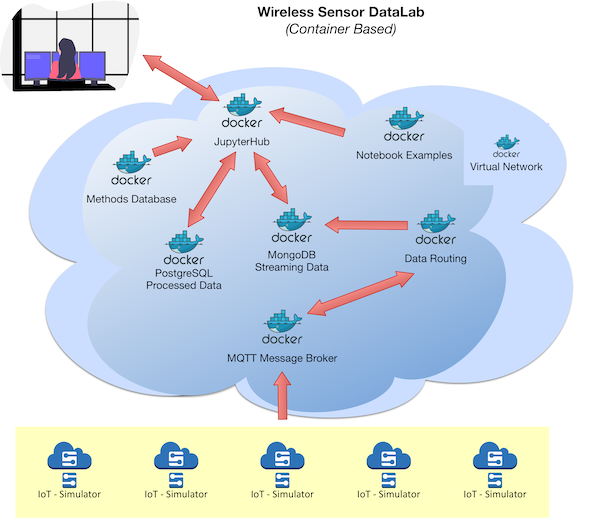
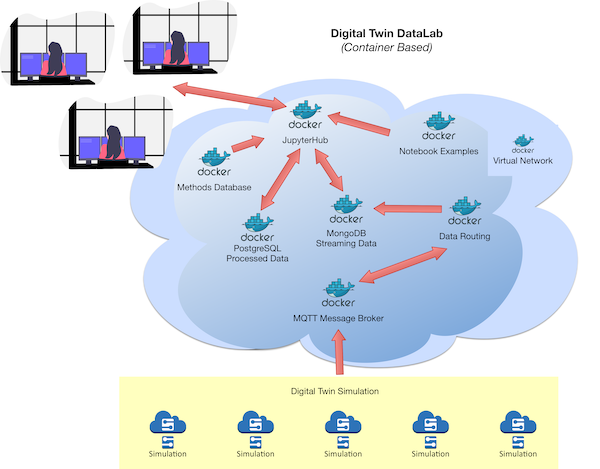
Updated to generic Digital Twin DataLab

diff --git a/README.md b/README.md
@@ -30,13 +30,11 @@ The basic premise here is to start with the idea of a (very) simple Soil Sensor 
 
 It is hoped that as well as documenting the steps taken I can also reflect on the pros and cons of various decisions en-route.
 
-#### A Wireless Sensor DataLab
+#### A Digital Twin DataLab
 
-A Wireless Sensor DataLab has been chosen because it raises some interesting architectural questions for the system due to the streaming nature of the 
-data and because of the physical topology with limited resources. It is perhaps also interesting because it gives us an opportunity to think about what
-a DataLab would look like that brought real-time streaming data together with historical data.
+A [Digital Twin](https://en.wikipedia.org/wiki/Digital_twin) DataLab has been chosen because it raises some interesting architectural questions for the system due to the digital twin data layer.   
 
-So, what is the purpose of this Wireless Soil Sensor Datalab? I think just to explore the characteristics of the streaming sensor data using a variety of
+So, what is the purpose of this Digital Twin Datalab? I think just to explore the characteristics of the streaming sensor data using a variety of
 techniques. As it develops, this will become more precise over time. 
 
 However, a real objective of this work is to document (and reflect upon) the approach used to move from a traditional software architecture to a cloud-native architecture.
